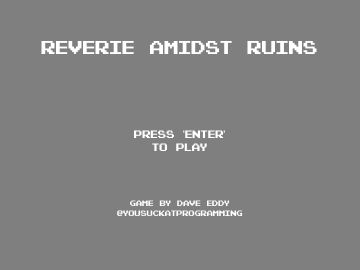
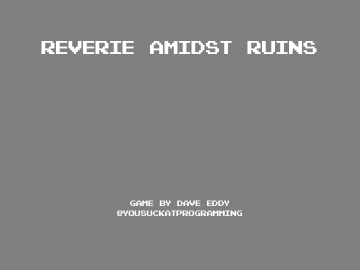
add an editor option

Changed region(s): [[0.3667, 0.4741, 0.6417, 0.563]]

diff --git a/src/main.rs b/src/main.rs
@@ -20,6 +20,7 @@ mod audio;
 mod camera;
 mod color;
 mod debug;
+mod editor;
 mod input;
 mod level;
 mod player;
@@ -125,6 +126,8 @@ fn main() -> Result<()> {
     let mut term_handle = Terminal::init()?;
     let mut input = input::Input::new();
     let mut screen = Screen::Title(level_screen);
+    // 0 = play, 1 = editor
+    let mut title_option = 0;
 
     // target FPS
     let frame_duration = Duration::from_secs_f32(1.0 / args.fps as f32);
@@ -199,6 +202,7 @@ fn main() -> Result<()> {
                 Screen::Title(s) => s.level.palette = palette,
                 Screen::Level(s) => s.level.palette = palette,
                 Screen::End(s) => s.level.palette = palette,
+                Screen::Editor(_) => {}
             };
             message = Some((
                 "palette randomized".into(),
@@ -243,9 +247,13 @@ fn main() -> Result<()> {
         } else {
             false
         };
-        // remove the title and spawn the player into the active level
+        // remove the title and spawn the player into the active level, or
+        // open the editor
         if input.confirm_pressed {
             screen = match screen {
+                Screen::Title(_) if title_option == 1 => {
+                    Screen::Editor(editor::Editor)
+                }
                 Screen::Title(level_screen) => {
                     if let Some(audio) = &audio {
                         audio.play_music(&level_screen.level.music)?;
@@ -254,6 +262,10 @@ fn main() -> Result<()> {
                 }
                 screen => screen,
             };
+        } else if (input.arrow_pressed || input.jump_pressed)
+            && matches!(screen, Screen::Title(_))
+        {
+            title_option = 1 - title_option;
         }
 
         // update the active screen
@@ -265,6 +277,7 @@ fn main() -> Result<()> {
             Screen::Title(level_screen) | Screen::End(level_screen) => {
                 level_screen.elapsed += delta.as_secs_f32();
             }
+            Screen::Editor(_) => {}
             // paused while the debug menu is open
             Screen::Level(_) if menu_open => {}
             Screen::Level(level_screen) => {
@@ -462,7 +475,7 @@ fn main() -> Result<()> {
                     HEIGHT as u32,
                 )
                 .context("could not render title level")?;
-                render::title(&mut frame)?;
+                render::title(&mut frame, title_option)?;
                 frame
             }
             Screen::Level(level_screen) => {
@@ -490,6 +503,9 @@ fn main() -> Result<()> {
                 .context("could not render end level")?;
                 render::end(&mut frame)?;
                 frame
+            }
+            Screen::Editor(editor) => {
+                editor.render(WIDTH as u32, HEIGHT as u32)
             }
         };
 
@@ -563,7 +579,7 @@ fn main() -> Result<()> {
         let msg = message.as_ref().map(|(text, _)| text.as_str()).unwrap_or("");
 
         match &screen {
-            Screen::Title(_) => {
+            Screen::Title(_) | Screen::Editor(_) => {
                 if !msg.is_empty() {
                     print!("{}\x1b[K\r", msg);
                 }

diff --git a/src/render.rs b/src/render.rs
@@ -80,8 +80,17 @@ const SOURCE_PALETTE: Palette = [
 ];
 
 /// Render "title" screen
-pub fn title(frame: &mut RgbaImage) -> Result<()> {
-    overlay_image(frame, TITLE)
+pub fn title(frame: &mut RgbaImage, selected: usize) -> Result<()> {
+    overlay_image(frame, TITLE)?;
+    for (i, option) in ["PLAY", "EDITOR"].iter().enumerate() {
+        let y = 130 + i as i32 * 13;
+        if i == selected {
+            text(frame, &format!("> {option} <"), y, 1, [255; 3]);
+        } else {
+            text(frame, option, y, 1, [0x80; 3]);
+        }
+    }
+    Ok(())
 }
 
 /// Render "end" screen
@@ -455,6 +464,53 @@ fn hitbox(
             for (channel, c) in pixel.0[..3].iter_mut().zip(color) {
                 *channel =
                     (*channel as f32 * (1.0 - alpha) + c as f32 * alpha) as u8;
+            }
+        }
+    }
+}
+
+// tiny 5x7 font, only has what we need so far
+fn glyph(c: char) -> [u8; 7] {
+    match c {
+        'A' => [0x0e, 0x11, 0x11, 0x1f, 0x11, 0x11, 0x11],
+        'D' => [0x1e, 0x11, 0x11, 0x11, 0x11, 0x11, 0x1e],
+        'E' => [0x1f, 0x10, 0x10, 0x1e, 0x10, 0x10, 0x1f],
+        'I' => [0x0e, 0x04, 0x04, 0x04, 0x04, 0x04, 0x0e],
+        'L' => [0x10, 0x10, 0x10, 0x10, 0x10, 0x10, 0x1f],
+        'O' => [0x0e, 0x11, 0x11, 0x11, 0x11, 0x11, 0x0e],
+        'P' => [0x1e, 0x11, 0x11, 0x1e, 0x10, 0x10, 0x10],
+        'R' => [0x1e, 0x11, 0x11, 0x1e, 0x14, 0x12, 0x11],
+        'T' => [0x1f, 0x04, 0x04, 0x04, 0x04, 0x04, 0x04],
+        'Y' => [0x11, 0x11, 0x0a, 0x04, 0x04, 0x04, 0x04],
+        '>' => [0x10, 0x08, 0x04, 0x02, 0x04, 0x08, 0x10],
+        '<' => [0x01, 0x02, 0x04, 0x08, 0x04, 0x02, 0x01],
+        _ => [0; 7],
+    }
+}
+
+/// Draw text centered horizontally
+pub fn text(
+    frame: &mut RgbaImage,
+    text: &str,
+    y: i32,
+    scale: i32,
+    color: Color,
+) {
+    let width = (text.chars().count() as i32 * 6 - 1) * scale;
+    let x = (frame.width() as i32 - width) / 2;
+    for (i, c) in text.chars().enumerate() {
+        for (row, bits) in glyph(c).iter().enumerate() {
+            for col in (0..5).filter(|col| bits >> (4 - col) & 1 == 1) {
+                let px = x + (i as i32 * 6 + col) * scale;
+                let py = y + row as i32 * scale;
+                for (dx, dy) in
+                    (0..scale).flat_map(|dx| (0..scale).map(move |dy| (dx, dy)))
+                {
+                    let (px, py) = ((px + dx) as u32, (py + dy) as u32);
+                    if let Some(p) = frame.get_pixel_mut_checked(px, py) {
+                        p.0 = [color[0], color[1], color[2], 255];
+                    }
+                }
             }
         }
     }

diff --git a/src/input/mod.rs b/src/input/mod.rs
@@ -25,6 +25,9 @@ pub struct Input {
     // just pressed jump
     pub jump_pressed: bool,
 
+    // just pressed any arrow (menus)
+    pub arrow_pressed: bool,
+
     // is holding / pressed enter
     pub confirm: bool,
 
@@ -83,6 +86,7 @@ impl Input {
 
         // one-shot buttons are reset / recomputed every frame
         self.jump_pressed = keyboard.jump_pressed || gamepad.jump_pressed;
+        self.arrow_pressed = keyboard.arrow_pressed || gamepad.arrow_pressed;
         self.confirm_pressed =
             keyboard.confirm_pressed || gamepad.confirm_pressed;
         self.screenshot_pressed =
@@ -113,6 +117,7 @@ struct InputState {
     right: bool,
     jump: bool,
     jump_pressed: bool,
+    arrow_pressed: bool,
     confirm: bool,
     confirm_pressed: bool,
     screenshot_pressed: bool,
@@ -131,6 +136,7 @@ impl InputState {
     /// Clear just the one-shot button presses
     fn clear_pressed(&mut self) {
         self.jump_pressed = false;
+        self.arrow_pressed = false;
         self.confirm_pressed = false;
         self.screenshot_pressed = false;
         self.effects_toggle_pressed = false;

diff --git a/src/input/keyboard.rs b/src/input/keyboard.rs
@@ -24,10 +24,15 @@ impl Keyboard {
 
             match key.code {
                 KeyCode::Left | KeyCode::Char('a' | 'A') => {
+                    self.state.arrow_pressed |= is_pressed;
                     self.state.left = is_down
                 }
                 KeyCode::Right | KeyCode::Char('d' | 'D') => {
+                    self.state.arrow_pressed |= is_pressed;
                     self.state.right = is_down
+                }
+                KeyCode::Up | KeyCode::Down if is_pressed => {
+                    self.state.arrow_pressed = true;
                 }
                 KeyCode::Char(' ') => {
                     if is_pressed {

diff --git a/src/input/gamepad.rs b/src/input/gamepad.rs
@@ -56,6 +56,15 @@ impl Gamepad {
                 EventType::ButtonPressed(Button::West, _) => {
                     state.restart_pressed = true;
                 }
+                EventType::ButtonPressed(
+                    Button::DPadLeft
+                    | Button::DPadRight
+                    | Button::DPadUp
+                    | Button::DPadDown,
+                    _,
+                ) => {
+                    state.arrow_pressed = true;
+                }
                 EventType::Disconnected => {
                     self.active = None;
                 }

diff --git a/src/editor/mod.rs b/src/editor/mod.rs
@@ -1,0 +1,18 @@
+/*!
+ * Level editor (not much here yet lol)
+ */
+
+use image::{Rgba, RgbaImage};
+
+use crate::render;
+
+pub struct Editor;
+
+impl Editor {
+    pub fn render(&self, width: u32, height: u32) -> RgbaImage {
+        let mut frame =
+            RgbaImage::from_pixel(width, height, Rgba([7, 24, 33, 255]));
+        render::text(&mut frame, "TODO", height as i32 / 2 - 28, 8, [255; 3]);
+        frame
+    }
+}

diff --git a/src/screen.rs b/src/screen.rs
@@ -5,6 +5,7 @@
 use anyhow::Result;
 
 use crate::camera::Camera;
+use crate::editor::Editor;
 use crate::level::{LevelDefinition, TILE_SIZE};
 use crate::player::Player;
 
@@ -14,6 +15,7 @@ pub enum Screen {
     Level(LevelScreen),
     // end screen has the final level underneath it
     End(LevelScreen),
+    Editor(Editor),
 }
 
 // crumble blocks shake, then they're gone for a bit
